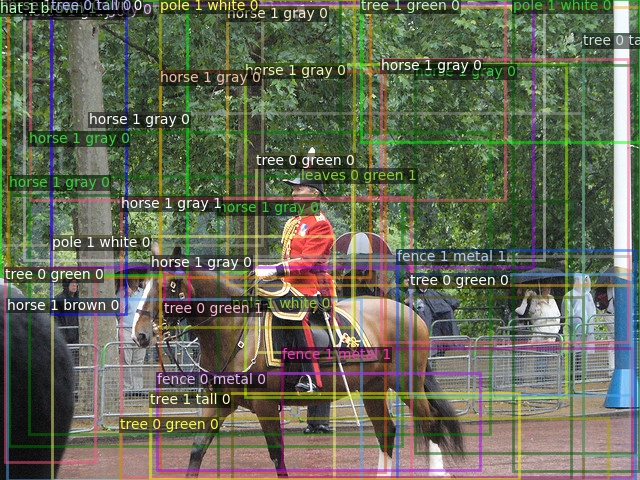
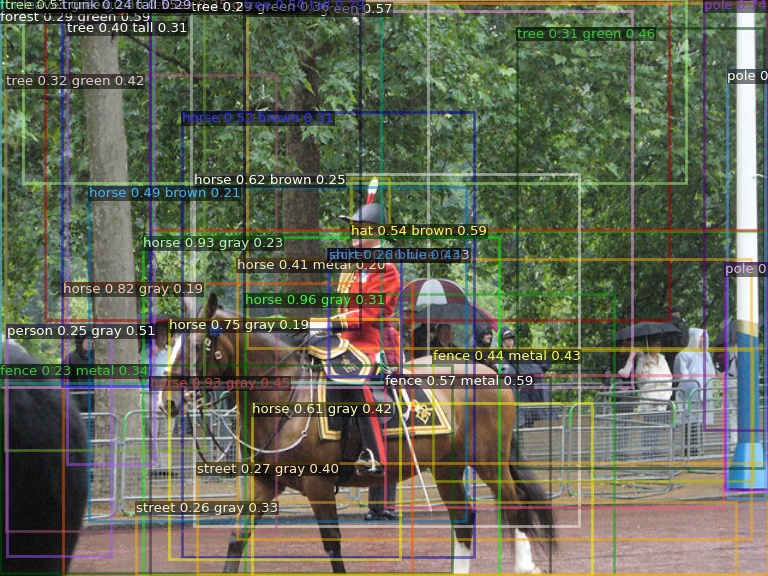
working

diff --git a/modeling_frcnn.py b/modeling_frcnn.py
@@ -1,4 +1,3 @@
-import copy
 import itertools
 import math
 from abc import ABCMeta, abstractmethod
@@ -20,13 +19,11 @@ def compare(t, eps_minor=0.01, eps_major=0.1):
     with open("dump.npy", "rb") as f:
         n = np.load(f)
         t2 = torch.from_numpy(n)
-        t2, _ = torch.sort(t2, dim=0, descending=False)
-        for i in range(4):
-            for j, (o, oo) in enumerate(zip(t[:, i].tolist(), t2[:, i].tolist())):
-                if int(o) != int(oo):
-                    print(i, j, o, oo)
+        # t2, _ = torch.sort(t2, dim=0, descending=False)
+        # for i in range(4):
+        #     for j, (o, oo) in enumerate(zip(t[:, i].tolist(), t2[:, i].tolist())):
+        #         if int(o) != int(oo):
 
-        print(t.shape, t2.shape)
         assert np.allclose(t.numpy(), t2.numpy(), rtol=eps_minor, atol=eps_major)
 
 
@@ -327,59 +324,48 @@ def rpn_losses(
 
 
 @torch.no_grad()
-def frcnn_output(
-        boxes,
-        box_scores,
-        attrs,
-        attr_scores,
-        feature_pooled,
-        image_size,
-        score_thresh,
-        nms_thresh,
-        topk_per_image,
+def frcnn_outputsv2(
+    boxes,
+    box_scores,
+    image_size,
+    score_thresh,
+    nms_thresh,
+    mink_per_image,
+    topk_per_image,
 ):
-
-    scores = box_scores[..., :-1]
+    scores = box_scores[:, :-1]
     num_bbox_reg_classes = boxes.shape[1] // 4
     # Convert to Boxes to use the `clip` function ...
     boxes = boxes.reshape(-1, 4)
     _clip_box(boxes, image_size[0])
     boxes = boxes.view(-1, num_bbox_reg_classes, 4)  # R x C x 4
 
-    for thresh in np.arange(*nms_thresh):
-        filter_mask = scores > score_thresh  # R x K
-        filter_inds = filter_mask.nonzero(as_tuple=False)
-        if num_bbox_reg_classes == 1:
-            boxes_t = copy.deepcopy(boxes[filter_inds[:, 0], 0])
-        else:
-            boxes_t = copy.deepcopy(boxes[filter_mask])
-        scores_t = copy.deepcopy(scores[filter_mask])
-        keep = box_ops.batched_nms(boxes_t, scores_t, filter_inds[:, 1], thresh)
-        if topk_per_image >= 0:
-            keep = keep[:topk_per_image]
+    # Apply NMS
+    filter_mask = scores > score_thresh  # R x K
+    filter_inds = filter_mask.nonzero(as_tuple=True)
+    # wow this was hard to catch
+    filter_inds = torch.transpose(torch.stack(filter_inds), -1, -2)
+    if num_bbox_reg_classes == 1:
+        max_boxes = boxes[filter_inds[:, 0], 0]
+    else:
+        max_boxes = boxes[filter_mask]
+    max_scores = scores[filter_mask]
+    keep = box_ops.batched_nms(max_boxes, max_scores, filter_inds[:, 1], nms_thresh)
+    keep = keep[:topk_per_image]
 
-        boxes_t, scores_t, filter_inds = (
-            boxes_t[keep],
-            scores_t[keep],
-            filter_inds[keep]
-        )
-        box_classes = filter_inds[:, 1]
-        inds = filter_inds[:, 0]
+    max_boxes, max_scores, filter_inds = (
+        max_boxes[keep],
+        max_scores[keep],
+        filter_inds[keep]
+    )
 
-        if len(inds) == topk_per_image:
-            break
+    classes = filter_inds[:, 1]
 
-    attrs = attrs[inds]
-    attr_scores = attr_scores[inds]
-    feature_pooled = feature_pooled[inds]
     return {
-        "boxes": boxes_t,
-        "obj_ids": box_classes,
-        "obj_scores": scores_t,
-        "attr_ids": attrs,
-        "attr_scores": attr_scores,
-        "roi_features": feature_pooled
-    }
+        "boxes": max_boxes,
+        "obj_ids": classes,
+        "obj_scores": max_scores,
+    }, filter_inds[:, 0]
 
 
 def add_ground_truth_to_proposals(gt_boxes, proposals):
@@ -1460,7 +1446,8 @@ class Res5ROIHeads(nn.Module):
         self.positive_sample_fraction = cfg.RPN.ROI_HEADS.POSITIVE_FRACTION
         self.test_score_thresh = cfg.RPN.ROI_HEADS.SCORE_THRESH_TEST
         self.test_nms_thresh = cfg.RPN.ROI_HEADS.NMS_THRESH_TEST
-        self.test_detections_per_img = cfg.DETECTIONS_PER_IMAGE
+        self.min_detections = cfg.MIN_DETECTIONS
+        self.max_detections = cfg.MAX_DETECTIONS
         self.in_features = cfg.RPN.ROI_HEADS.IN_FEATURES
         self.num_classes = cfg.RPN.ROI_HEADS.NUM_CLASSES
         self.proposal_append_gt = cfg.RPN.ROI_HEADS.PROPOSAL_APPEND_GT
@@ -1652,13 +1639,6 @@ class Res5ROIHeads(nn.Module):
 
         pred_class_logits, pred_attr_logits, pred_proposal_deltas = box_predictions
 
-        """
-        torch.Size([134, 1601])
-        torch.Size([134, 401])
-        torch.Size([134, 6400])
-        tohch.Size([134, 2048]
-        """
-
         outputs = FastRCNNOutputs(
             self.box2box_transform,
             box_predictions,
@@ -1677,7 +1657,8 @@ class Res5ROIHeads(nn.Module):
             pred_instances = outputs.inference(
                 self.test_score_thresh,
                 self.test_nms_thresh,
-                self.test_detections_per_img,
+                self.min_detections,
+                self.max_detections,
             )
             return pred_instances
 
@@ -2087,13 +2068,13 @@ class FastRCNNOutputs(object):
         }
 
     def predict_boxes(self):
-        # N = self.proposals.size(0)
-        num_pred = self.proposals.size(-2)
-        B = self.proposals.size(-1)
+        # need to squeeze first dim here for single image
+        proposals = self.proposals.squeeze(0)
+        num_pred = proposals.size(-2)
+        B = proposals.size(-1)
         K = self.pred_proposal_deltas.size(-1) // B
         pred_proposal_deltas = self.pred_proposal_deltas.view(num_pred * K, B)
-        proposals = self.proposals.expand(K, num_pred, B).reshape(-1, B)
-        # proposals, _ = torch.sort(proposals, dim=0, descending=True)
+        proposals = proposals.unsqueeze(1).expand(num_pred, K, B).reshape(-1, B)
         boxes = self.box2box_transform.apply_deltas(
             pred_proposal_deltas,
             proposals
@@ -2106,26 +2087,34 @@ class FastRCNNOutputs(object):
         return probs.split(self.num_preds_per_image, dim=0)
 
     @torch.no_grad()
-    def inference(self, score_thresh, nms_thresh, topk_per_image):
+    def inference(self, score_thresh, nms_thresh, mink_per_image, topk_per_image):
         # ther is something wrong here
         boxes = self.predict_boxes()[0]
         box_scores = self.predict_probs()[0]
+
         attrs = self.pred_attr_logits[..., :-1].softmax(-1)
         attr_probs, attrs = attrs.max(-1)
         feature_pooled = self.feature_pooled
         image_sizes = self.image_size
+        if not isinstance(nms_thresh, list):
+            nms_thresh = [nms_thresh]
+        for nms_t in nms_thresh:
+            output, ids = frcnn_outputsv2(
+                boxes=boxes,
+                box_scores=box_scores,
+                image_size=image_sizes,
+                score_thresh=score_thresh,
+                nms_thresh=nms_t,
+                mink_per_image=mink_per_image,
+                topk_per_image=topk_per_image,
+            )
+            if ids.shape[-1] >= mink_per_image and ids.shape[-1] <= topk_per_image:
+                break
 
-        return frcnn_output(
-            boxes,
-            box_scores,
-            attrs,
-            attr_probs,
-            feature_pooled,
-            image_sizes,
-            score_thresh,
-            nms_thresh,
-            topk_per_image,
-        ), {}
+        output["attr_ids"] = attrs[ids]
+        output["attr_scores"] = attr_probs[ids]
+        output["roi_features"] = feature_pooled[ids]
+        return output
 
 
 class FastRCNNOutputLayers(nn.Module):
@@ -2261,7 +2250,7 @@ class GeneralizedRCNN(nn.Module):
                     )
                 else:
                     assert proposals is not None
-                results, _ = self.roi_heads(features, proposals, None)
+                results = self.roi_heads(features, proposals, None)
             else:
                 results = self.roi_heads.forward_with_given_boxes(
                     features, gt_boxes
@@ -2270,6 +2259,4 @@ class GeneralizedRCNN(nn.Module):
             if scale_yx is not None:
                 results["boxes"] = _scale_box(results["boxes"], scale_yx)
 
-            # torch.save(results, "output.pt")
-
-            return results
+        return results

diff --git a/visualizing_image.py b/visualizing_image.py
@@ -17,7 +17,7 @@ class SingleImageViz:
     def __init__(
         self,
         img,
-        scale=1.0,
+        scale=1.2,
         edgecolor="g",
         alpha=0.5,
         linestyle="-",
@@ -53,7 +53,7 @@ class SingleImageViz:
         self.edgecolor = edgecolor
         self.alpha = 0.5
         self.linestyle = linestyle
-        self.font_size = int(np.sqrt(min(height, width)) * scale // 2)
+        self.font_size = int(np.sqrt(min(height, width)) * scale // 3)
         self.width = width
         self.height = height
         self.scale = scale
@@ -81,7 +81,7 @@ class SingleImageViz:
                 height,
                 fill=False,
                 edgecolor=color,
-                linewidth=self.font_size // 4,
+                linewidth=self.font_size // 3,
                 alpha=self.alpha,
                 linestyle=self.linestyle,
             )
@@ -95,6 +95,10 @@ class SingleImageViz:
         areas = np.prod(boxes[:, 2:] - boxes[:, :2], axis=1)
         sorted_idxs = np.argsort(-areas).tolist()
         boxes = boxes[sorted_idxs] if boxes is not None else None
+        obj_ids = obj_ids[sorted_idxs] if obj_ids is not None else None
+        obj_scores = obj_scores[sorted_idxs] if obj_scores is not None else None
+        attr_ids = attr_ids[sorted_idxs] if attr_ids is not None else None
+        attr_scores = attr_scores[sorted_idxs] if attr_scores is not None else None
         assigned_colors = [self._random_color(maximum=1) for _ in range(len(boxes))]
         assigned_colors = [assigned_colors[idx] for idx in sorted_idxs]
         if obj_ids is not None:
@@ -120,7 +124,7 @@ class SingleImageViz:
         height_ratio = (y1 - y0) / np.sqrt(self.height * self.width)
         lighter_color = self._change_color_brightness(color, brightness_factor=0.7)
         font_size = np.clip((height_ratio - 0.02) / 0.08 + 1, 1.2, 2)
-        font_size *= 0.5 * self.font_size
+        font_size *= 0.75 * self.font_size
 
         self.draw_text(
             text=label,
@@ -177,13 +181,11 @@ class SingleImageViz:
     def _create_text_labels_attr(self, classes, scores, attr_classes, attr_scores):
         labels = [self.id2obj[i] for i in classes]
         attr_labels = [self.id2attr[i] for i in attr_classes]
-        if len(scores.shape) > 1:
-            scores = scores.max(-1)
         labels = [
-            f"{li} {float(s):.0f} {ll} {float(ss):.0f}".format(
-                li, s * 100, ll, ss * 100
+            f"{label} {score:.2f} {attr} {attr_score:.2f}"
+            for label, score, attr, attr_score in zip(
+                labels, scores, attr_labels, attr_scores
             )
-            for li, s, ll, ss in zip(labels, scores, attr_labels, attr_scores)
         ]
         return labels
 

diff --git a/inference_lxmert.py b/inference_lxmert.py
@@ -29,9 +29,7 @@ def load_obj_data(objs="objects.txt", attrs="attributes.txt"):
     with open(attrs) as f:
         for object in f.readlines():
             vg_attrs.append(object.split(",")[0].lower().strip())
-    return {i: c for i, c in enumerate(vg_classes)}, {
-        i: c for i, c in enumerate(vg_attrs)
-    }
+    return vg_classes, vg_attrs
 
 
 def load_ckp(ckp="checkpoint.pkl"):
